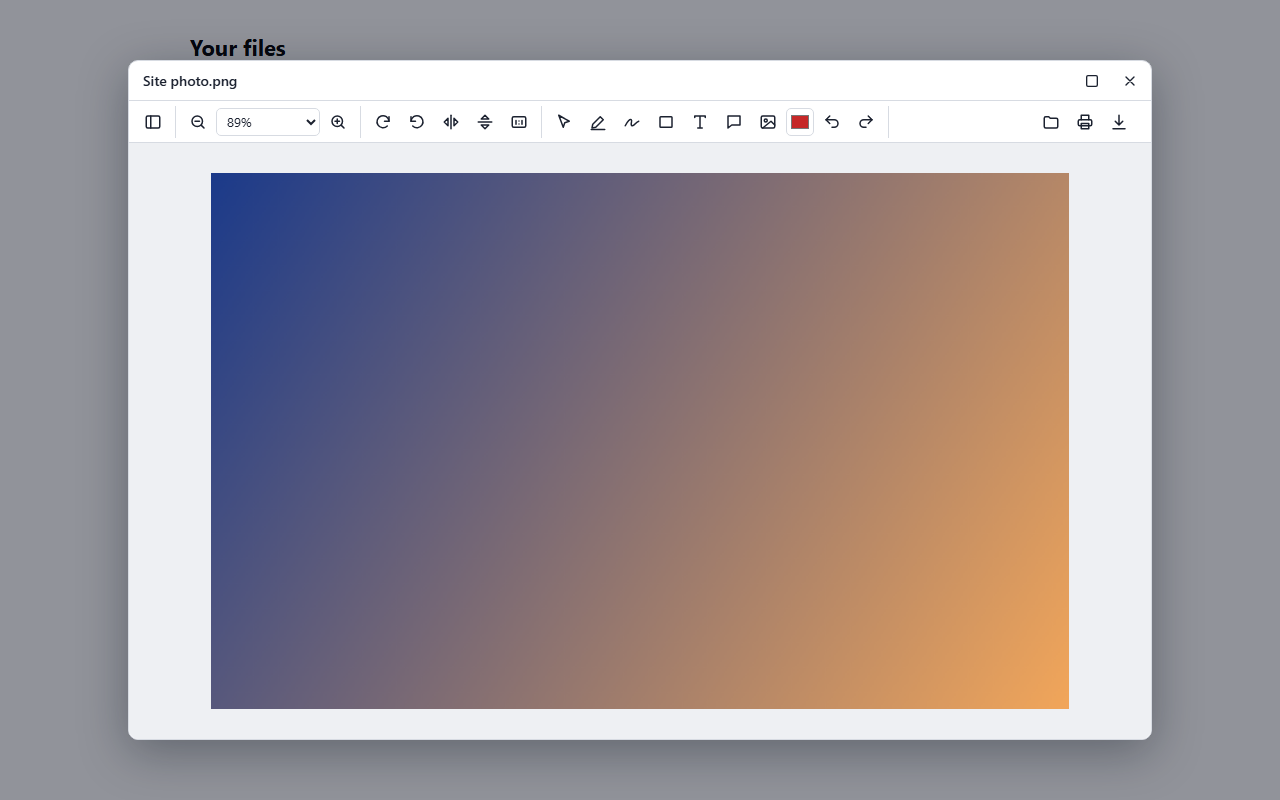
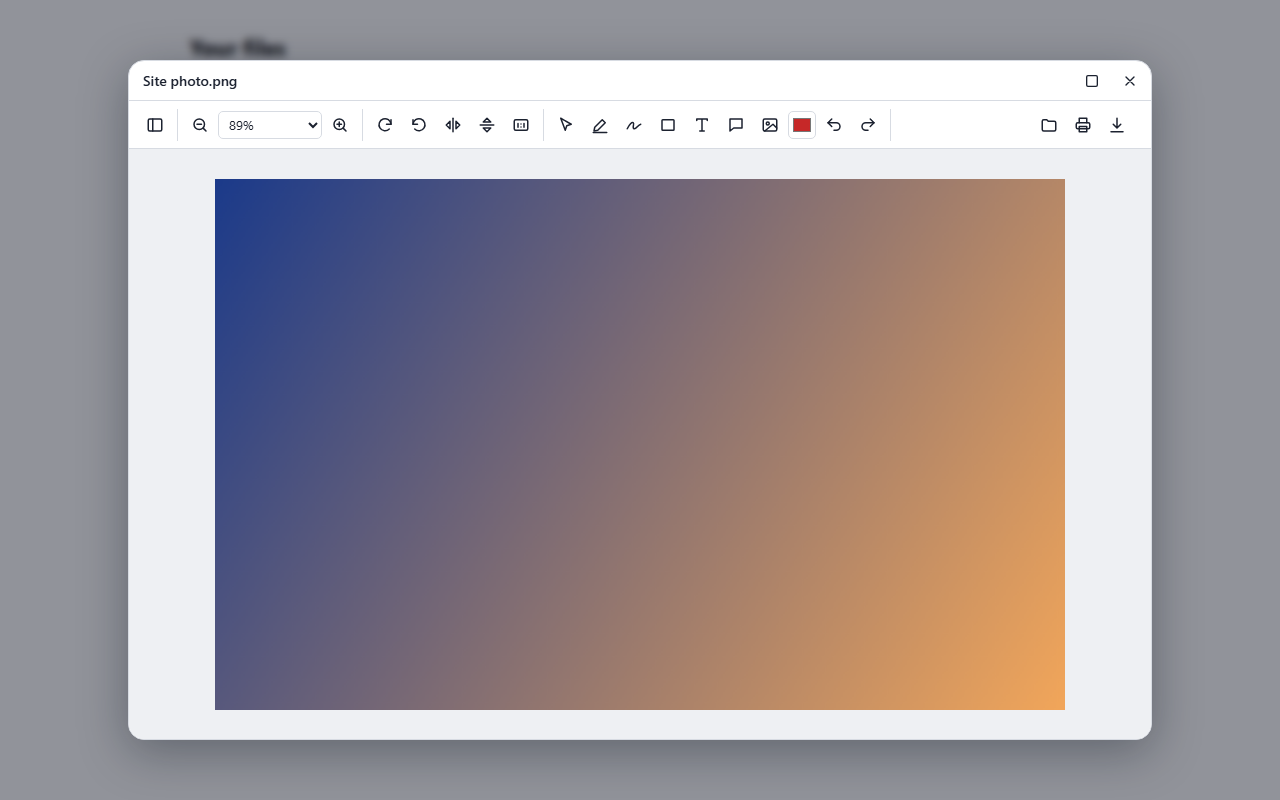
Polish the settings screen and viewer styling
The settings screen gets a heading and an Appearance section with a preview,
and it follows the system theme as it changes. The file list, modal and
toolbar get softer corners, more spacing and gentle fades, which turn off for
people who ask for reduced motion. Screenshots are retaken to match.

diff --git a/viewer/packages/core/src/settings-panel.ts b/viewer/packages/core/src/settings-panel.ts
@@ -50,10 +50,19 @@ const PANEL_CSS = `
   color-scheme: dark;
 }
 * { box-sizing: border-box; }
-.ps-panel { border: 1px solid var(--ps-border); border-radius: 8px; background: var(--ps-surface); }
-.ps-groups { padding: 16px 16px 0; columns: 2 300px; column-gap: 32px; }
+.ps-panel { border: 1px solid var(--ps-border); border-radius: 16px; background: var(--ps-surface); overflow: hidden; box-shadow: 0 8px 32px #10182808; animation: ps-enter 220ms ease-out; }
+.ps-heading { padding: 24px 24px 0; }
+.ps-heading h2 { margin: 0 0 6px; font-size: 20px; font-weight: 650; letter-spacing: -0.5px; }
+.ps-heading p { margin: 0; color: var(--ps-muted); }
+.ps-appearance { margin: 20px 24px 0; padding: 16px; border: 1px solid var(--ps-border); border-radius: 12px; background: color-mix(in srgb, var(--ps-hover) 40%, var(--ps-surface)); }
+.ps-appearance label { border: 0; padding: 0; }
+.ps-appearance label > span { font-weight: 600; }
+.ps-preview { display: flex; gap: 6px; height: 56px; margin-top: 12px; padding: 8px; border: 1px solid var(--ps-border); border-radius: 8px; background: var(--ps-hover); }
+.ps-preview::before { content: ''; width: 20%; border-radius: 4px; background: var(--ps-surface); }
+.ps-preview::after { content: ''; width: 55%; margin: 0 auto; border-radius: 3px; background: var(--ps-surface); box-shadow: 0 2px 6px #10182812; }
+.ps-groups { padding: 24px 24px 8px; columns: 2 300px; column-gap: 32px; }
 fieldset { min-width: 0; margin: 0; padding: 0 0 16px; border: 0; break-inside: avoid; }
-legend { padding: 0 0 8px; font-size: 13px; font-weight: 600; }
+legend { padding: 0 0 10px; font-size: 12px; font-weight: 650; letter-spacing: 0.04em; }
 label { display: flex; align-items: center; justify-content: space-between; gap: 16px; min-height: 40px; padding: 4px 0; border-top: 1px solid var(--ps-border); cursor: pointer; }
 input[type='checkbox'] { position: relative; flex-shrink: 0; width: 32px; height: 18px; margin: 0; border-radius: 9px; background: var(--ps-switch-off); appearance: none; cursor: pointer; transition: background-color 120ms; }
 input[type='checkbox']::before { content: ''; position: absolute; top: 2px; left: 2px; width: 14px; height: 14px; border-radius: 50%; background: var(--ps-knob); transition: transform 120ms; }
@@ -70,8 +79,19 @@ input:focus-visible, textarea:focus-visible, select:focus-visible, button:focus-
 .ps-status { flex: 1; min-width: 0; color: var(--ps-muted); }
 .ps-status[data-error='true'] { color: #c62828; }
 :host([data-theme='dark']) .ps-status[data-error='true'] { color: #ff8a80; }
-button { min-height: 30px; padding: 0 12px; border: 1px solid var(--ps-border); border-radius: 6px; background: transparent; color: inherit; font: inherit; cursor: pointer; }
-@media (prefers-reduced-motion: reduce) { input[type='checkbox'], input[type='checkbox']::before { transition: none; } }
+button { min-height: 36px; padding: 0 12px; border: 1px solid var(--ps-border); border-radius: 8px; background: transparent; color: inherit; font: inherit; cursor: pointer; }
+select { height: 36px; border-radius: 8px; }
+.ps-panel, .ps-appearance, .ps-preview, .ps-preview::before, .ps-preview::after, label, select, textarea, button, .ps-actions { transition: background-color 220ms ease, color 220ms ease, border-color 220ms ease, box-shadow 180ms ease; }
+button:active { background: var(--ps-hover); }
+@keyframes ps-enter { from { opacity: 0; transform: translateY(6px); } to { opacity: 1; transform: translateY(0); } }
+@media (max-width: 420px) {
+  .ps-heading { padding: 18px 16px 0; }
+  .ps-appearance { margin: 16px 16px 0; }
+  .ps-groups { padding: 20px 16px 4px; }
+  label { gap: 8px; }
+  select { flex-basis: 130px; width: 130px; }
+}
+@media (prefers-reduced-motion: reduce) { *, *::before, *::after { transition: none !important; animation: none !important; } }
 `;
 
 function readStored(key: string | undefined): Partial<PdfSuiteSettings> {
@@ -94,6 +114,8 @@ export class SettingsPanel {
   private saves: Promise<void> = Promise.resolve();
   private changedByUser = false;
   private destroyed = false;
+  private readonly systemTheme = window.matchMedia?.('(prefers-color-scheme: dark)');
+  private readonly syncSystemTheme = () => this.sync();
 
   constructor(
     private readonly host: HTMLElement,
@@ -103,6 +125,7 @@ export class SettingsPanel {
     configureViewer(readStored(options.storageKey));
     this.build();
     this.unsubscribe = onViewerSettingsChange(() => this.sync());
+    this.systemTheme?.addEventListener('change', this.syncSystemTheme);
     this.sync();
     void this.loadFromServer();
   }
@@ -115,6 +138,7 @@ export class SettingsPanel {
       void this.saveToServer();
     }
     this.unsubscribe();
+    this.systemTheme?.removeEventListener('change', this.syncSystemTheme);
     this.shadow.replaceChildren();
   }
 
@@ -123,9 +147,26 @@ export class SettingsPanel {
     style.textContent = PANEL_CSS;
     const groups = document.createElement('div');
     groups.className = 'ps-groups';
+    const heading = document.createElement('header');
+    heading.className = 'ps-heading';
+    const title = document.createElement('h2');
+    title.textContent = 'Make it yours';
+    const description = document.createElement('p');
+    description.textContent = 'A comfortable space for your documents.';
+    heading.append(title, description);
+    const appearance = document.createElement('section');
+    appearance.className = 'ps-appearance';
+    appearance.setAttribute('aria-label', 'Appearance');
+    const theme = SETTINGS_SCHEMA.flatMap((group) => group.settings).find((setting) => setting.key === 'theme')!;
+    if (!this.options.exclude?.includes('theme')) {
+      const preview = document.createElement('div');
+      preview.className = 'ps-preview';
+      preview.setAttribute('aria-hidden', 'true');
+      appearance.append(this.buildControl(theme), preview);
+    }
 
     for (const group of SETTINGS_SCHEMA) {
-      const visible = group.settings.filter((setting) => !this.options.exclude?.includes(setting.key));
+      const visible = group.settings.filter((setting) => setting.key !== 'theme' && !this.options.exclude?.includes(setting.key));
       if (visible.length === 0) continue;
 
       const fieldset = document.createElement('fieldset');
@@ -149,6 +190,8 @@ export class SettingsPanel {
     actions.append(this.status, reset);
     const panel = document.createElement('div');
     panel.className = 'ps-panel';
+    panel.append(heading);
+    if (appearance.childElementCount) panel.append(appearance);
     panel.append(groups, actions);
     this.shadow.replaceChildren(style, panel);
   }

diff --git a/viewer/packages/core/src/file-list.ts b/viewer/packages/core/src/file-list.ts
@@ -61,8 +61,9 @@ const LIST_CSS = `
 }
 :host([data-theme='dark']) { --pl-surface: #262b35; --pl-text: #e7eaf0; --pl-muted: #a0a8b6; --pl-border: #3a404c; --pl-hover: #333946; --pl-accent: #7ea2f5; }
 * { box-sizing: border-box; }
-ul { margin: 0; padding: 0; list-style: none; border: 1px solid var(--pl-border); border-radius: 8px; background: var(--pl-surface); overflow: hidden; }
-li { display: flex; align-items: center; gap: 10px; min-height: 44px; padding: 4px 6px 4px 12px; border-top: 1px solid var(--pl-border); cursor: pointer; }
+ul { margin: 0; padding: 0; list-style: none; border: 1px solid var(--pl-border); border-radius: 12px; background: var(--pl-surface); overflow: hidden; box-shadow: 0 4px 20px #10182806; }
+li { display: flex; align-items: center; gap: 12px; min-height: 56px; padding: 8px 10px 8px 16px; border-top: 1px solid var(--pl-border); cursor: pointer; }
+ul, li, .pl-more, .pl-badge { transition: background-color 200ms ease, color 200ms ease, border-color 200ms ease; }
 li:first-child { border-top: 0; }
 li:hover { background: var(--pl-hover); }
 li:focus-visible { outline: 2px solid var(--pl-accent); outline-offset: -2px; }
@@ -76,6 +77,7 @@ li:focus-visible { outline: 2px solid var(--pl-accent); outline-offset: -2px; }
 .pl-more svg { width: 16px; height: 16px; fill: currentColor; }
 .pl-empty { padding: 24px; border: 1px dashed var(--pl-border); border-radius: 8px; color: var(--pl-muted); text-align: center; }
 @media (max-width: 560px) { .pl-meta { display: none; } }
+@media (prefers-reduced-motion: reduce) { * { transition: none !important; } }
 `;
 
 function formatSize(bytes: number): string {

diff --git a/viewer/packages/core/src/styles.ts b/viewer/packages/core/src/styles.ts
@@ -30,8 +30,11 @@ export const VIEWER_CSS = `
   --pv-page-shadow: 0 1px 6px rgba(0, 0, 0, 0.6);
 }
 * { box-sizing: border-box; }
+.pv-root, .pv-toolbar, .pv-sidebar, .pv-tabs, .pv-searchbar, .pv-btn, .pv-input, .pv-select, .pv-dialog, .pv-thumb { transition: background-color 220ms ease, color 220ms ease, border-color 220ms ease, box-shadow 180ms ease; }
+.pv-searchbar[data-open='true'], .pv-sidebar[data-open='true'] { animation: pv-reveal 180ms ease-out; }
+@keyframes pv-reveal { from { opacity: 0; } to { opacity: 1; } }
 .pv-root { display: flex; flex-direction: column; height: 100%; background: var(--pv-bg); overflow: hidden; }
-.pv-toolbar { display: flex; flex-wrap: wrap; align-items: center; gap: 2px 4px; min-height: 42px; padding: 4px 8px; background: var(--pv-surface); border-bottom: 1px solid var(--pv-border); }
+.pv-toolbar { display: flex; flex-wrap: wrap; align-items: center; gap: 2px 4px; min-height: 48px; padding: 7px 10px; background: var(--pv-surface); border-bottom: 1px solid var(--pv-border); }
 .pv-group { display: flex; align-items: center; gap: 2px; padding-right: 6px; margin-right: 2px; border-right: 1px solid var(--pv-border); }
 .pv-group:last-child { border-right: 0; }
 .pv-group:empty { display: none; }
@@ -123,4 +126,5 @@ export const VIEWER_CSS = `
   .pv-hide-small { display: none; }
 }
 @media print { .pv-toolbar, .pv-searchbar, .pv-sidebar { display: none; } }
+@media (prefers-reduced-motion: reduce) { *, *::before, *::after { transition: none !important; animation: none !important; } }
 `;

diff --git a/viewer/e2e/settings.spec.ts b/viewer/e2e/settings.spec.ts
@@ -317,6 +317,26 @@ test.describe('settings screen', () => {
     await expect(dialog(page)).toHaveCount(0);
   });
 
+  test('appearance follows the system and remembers an explicit theme', async ({ page }) => {
+    await page.emulateMedia({ colorScheme: 'light' });
+    await openPanel(page);
+    const panel = page.locator('.ps-panel');
+    await expect(page.getByRole('region', { name: 'Appearance' })).toBeVisible();
+    await page.emulateMedia({ colorScheme: 'dark' });
+    await expect(panel).toHaveCSS('background-color', 'rgb(38, 43, 53)');
+    await setting(page, 'theme').selectOption('light');
+    await expect(panel).toHaveCSS('background-color', 'rgb(255, 255, 255)');
+    await page.reload();
+    await page.locator('summary', { hasText: 'Settings' }).click();
+    await expect(setting(page, 'theme')).toHaveValue('light');
+    await expect(panel).toHaveCSS('background-color', 'rgb(255, 255, 255)');
+    await page.emulateMedia({ reducedMotion: 'reduce' });
+    await expect(panel).toHaveCSS('transition-duration', '0s');
+    await page.getByRole('button', { name: 'Reset to defaults' }).click();
+    await expect(setting(page, 'theme')).toHaveValue('auto');
+    await expect(panel).toHaveCSS('background-color', 'rgb(38, 43, 53)');
+  });
+
   test('a switch takes effect the next time a file opens', async ({ page }) => {
     await openPanel(page);
     await setting(page, 'allowRename').check();

diff --git a/viewer/packages/core/src/modal.ts b/viewer/packages/core/src/modal.ts
@@ -66,12 +66,16 @@ dialog {
   max-height: none;
   overflow: visible;
   border: 1px solid var(--pm-border);
-  border-radius: 10px;
+  border-radius: 16px;
   background: var(--pm-surface);
   color: var(--pm-text);
   box-shadow: 0 12px 48px rgba(10, 16, 30, 0.35);
 }
-dialog::backdrop { background: rgba(10, 16, 30, 0.45); }
+dialog[open] { animation: pm-enter 200ms ease-out; }
+dialog::backdrop { background: rgba(10, 16, 30, 0.45); backdrop-filter: blur(4px); animation: pm-enter 200ms ease-out; }
+.pm-button, .pm-action { transition: background-color 160ms ease, color 160ms ease; }
+@keyframes pm-enter { from { opacity: 0; } to { opacity: 1; } }
+@media (prefers-reduced-motion: reduce) { *, *::backdrop { animation: none !important; transition: none !important; } }
 dialog[data-maximized='true'] { border-radius: 0; border-width: 0; }
 .pm-frame { display: flex; flex-direction: column; width: 100%; height: 100%; overflow: hidden; border-radius: inherit; }
 .pm-header { display: flex; align-items: center; gap: 8px; flex-shrink: 0; height: 40px; padding: 0 6px 0 14px; border-bottom: 1px solid var(--pm-border); cursor: move; touch-action: none; user-select: none; }

diff --git a/site/index.html b/site/index.html
@@ -422,7 +422,7 @@ docker compose up -d --build</code></pre></div>
         <p>What a click does, where the toolbar sits, whether downloads are allowed, the watermark: all of it is a setting. Set them in code, give people a ready-made screen, and keep the choices in the browser or on your server.</p>
       </div>
       <div class="grid two">
-        <figure class="frame"><img src="screenshots/settings-panel.png" width="900" height="826" alt="The settings screen, with groups for the file list, viewer window, downloads, viewer, editing and watermark"></figure>
+        <figure class="frame"><img src="screenshots/settings-panel.png" width="900" height="1073" alt="The settings screen, with groups for the file list, viewer window, downloads, viewer, editing and watermark"></figure>
         <div>
           <h3>For your whole app</h3>
           <div class="code"><pre><code>import { configureViewer } from '@pdf-suite/react';

diff --git a/viewer/e2e/image-editing.spec.ts b/viewer/e2e/image-editing.spec.ts
@@ -134,6 +134,8 @@ test.describe('one toolbar', () => {
   });
 
   test('an active button stays readable under the mouse', async ({ page }) => {
+    // Buttons fade between colors, so this turns that off to compare the colors they settle on.
+    await page.emulateMedia({ reducedMotion: 'reduce' });
     await openImage(page);
     const button = page.getByRole('button', { name: 'Draw', exact: true });
     const colors = () => button.evaluate((element) => {
